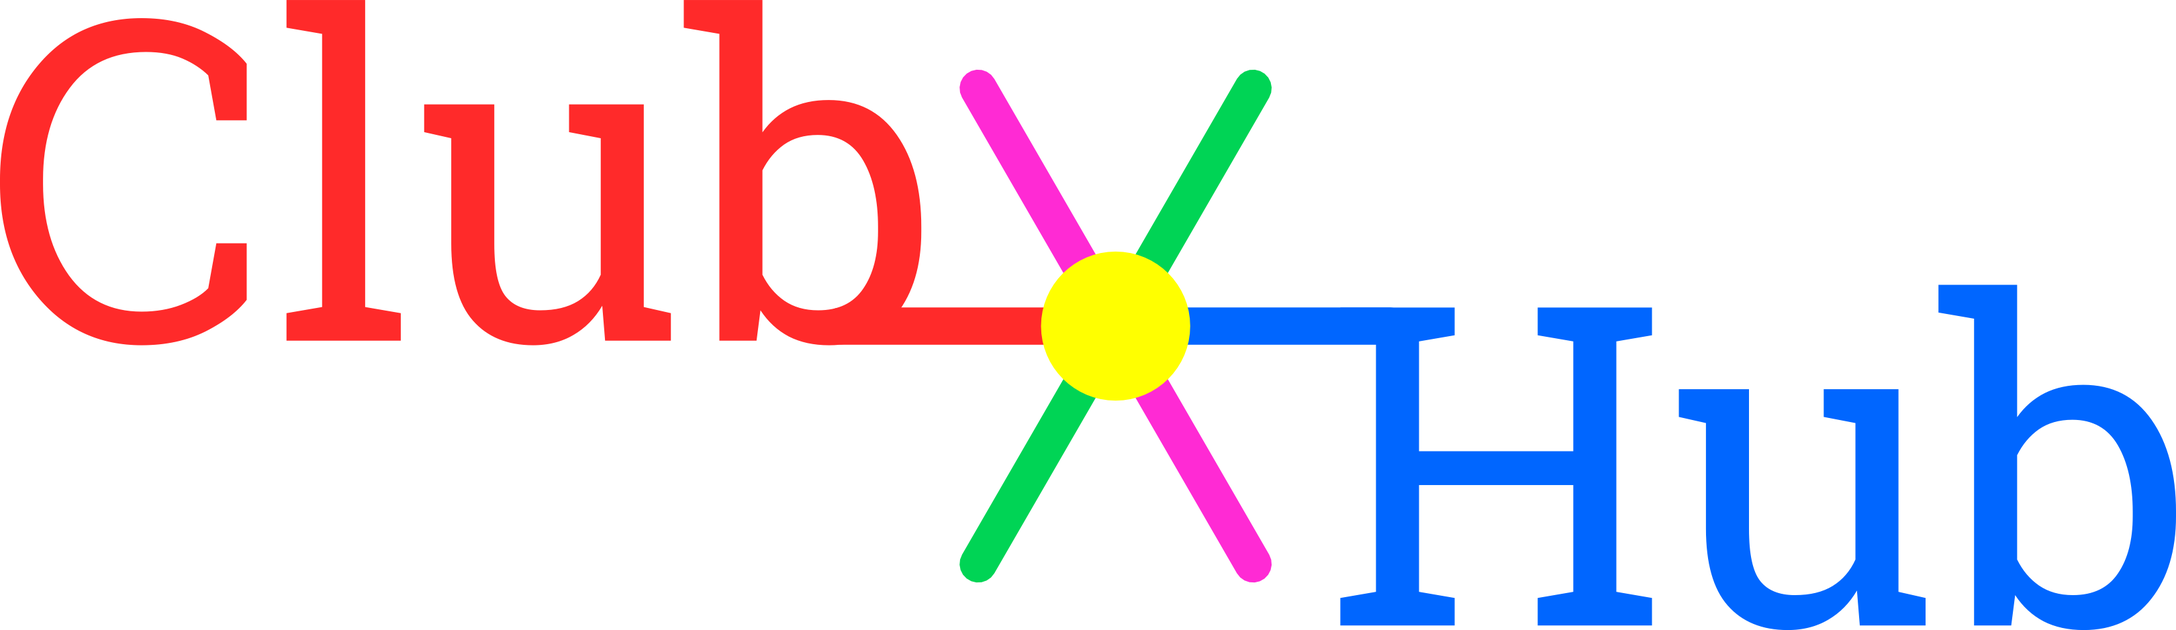
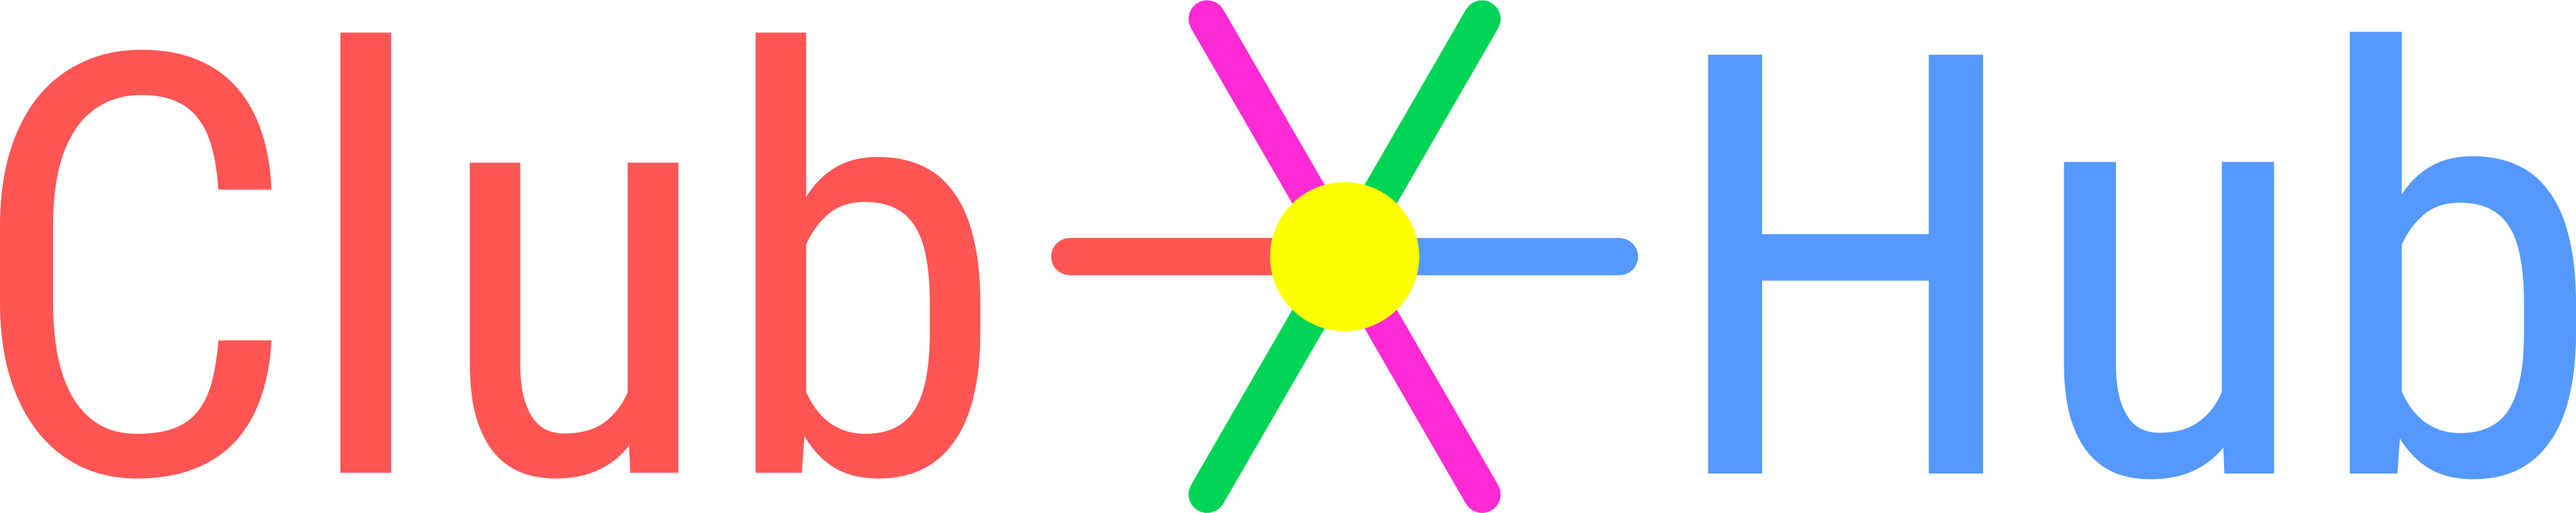
Club Hub: new clean look.

diff --git a/clubhub/meta/style.css b/clubhub/meta/style.css
@@ -9,10 +9,10 @@ body, html
 
 body 
 {
-        background-size: 100%;
+        background-size: 20%;
 	background-repeat: repeat;
-	background-attachment: fixed;
-	background-image: url("/clubhub/media/chalk.jpg");
+	background-attachment: scroll;
+	background-image: url("/clubhub/media/graph_light.png");
 	font-family: 'Roboto', serif;
 	font-weight: 300;
 	font-size: 1em;
@@ -35,8 +35,10 @@ h1, h2
 {
 	margin: 0% 5% 5% 5%;
 	/*background-color: rgba(255, 255, 255,1);*/
-	background-image: url("/clubhub/media/paper.jpg");
-	background-size: 100% auto;
+	/*background-image: url("/clubhub/media/paper.jpg");*/
+	background-image: url("/clubhub/media/texturedwhite.jpg");
+	background-color: white;
+	background-size: 100%;
 	background-repeat: repeat;
 	padding: 1% 2%;
 	border: 1px solid rgb(200,200,200);
@@ -58,13 +60,29 @@ h1, h2
         width: 100%;
         margin: 0% 0% 2% 0%;
         height: 3em;
-        background-color: rgb(0,102,255);
+        background-color: rgba(255,100,100, 0.3);
+        border-bottom: 2px solid rgb(200,50,50);
+        color: rgb(200,50,50);
         border-radius: 5px;
+}
+
+.protip.protip-green
+{
+        background-color: rgba(0, 182, 57, 0.3);
+        border-bottom: 2px solid rgb(0, 100, 57);
+        color: rgb(0, 100, 57);
+}
+
+.protip.protip-clear
+{
+        background-color: none;
+        border: none;
+        color: black;
 }
 
 .protip p, .protip a
 {
-        color: white;
+        color: inherit;
         text-align: center;
         padding: 1em 0;
 }
@@ -73,21 +91,6 @@ h1, h2
 {
         font-style: bold;
 }
-
-.sorttip
-{
-        width: 100%;
-        margin: 0% 0% 2% 0%;
-        height: 3em;
-        border-bottom: 3px solid rgba(0,102,255, 0.3);
-        border-radius: 5px;
-}
-
-.sorttip p
-{
-        font-weight: normal;
-}
-
 .clubtip
 {
         border-bottom: 3px solid rgba(255, 42, 42, 0.3);
@@ -133,7 +136,7 @@ footer
 	font-family: "Roboto", sans-serif;
 	font-size: 2em;
 	font-weight: 300;
-	color: rgb(220,220,220);
+	color: rgb(100,100,100);
 	vertical-align: middle;
 	padding-left: 2%;
 	display: inline-block;
@@ -318,59 +321,3 @@ hr
         /* Internet Explorer */
         filter: progid:DXImageTransform.Microsoft.BasicImage(rotation=3);
 }
-
-
-/*Sort bar stuff*/
-
-.sorts
-{
-        display: inline;
-}
-
-.button {
-  display: inline-block;
-  padding: 0.5em 1.0em;
-  background: white;
-  border: 1px solid rgb(0,102,255);
-  border-radius: 5px;
-  cursor: pointer;
-}
-
-.button:hover {
-  background-color: #8CF;
-}
-
-.button:active,
-.button.is-checked {
-  background-color: rgb(0,102,255);
-}
-
-.button.is-checked {
-  color: white;
-}
-
-.button-group
-{
-        margin: 0% 0% 2% 0%;
-        display: inline-block;
-}
-
-.buttonbar
-{
-        width: 100%;
-}
-
-#imsaundefined-link
-{
-        background: rgb(256, 100, 0);
-        border: 1px solid rgb(256, 200, 100);
-        color: white;
-        display: inline-block;
-        float: right;
-}
-
-#imsaundefined-link:hover
-{
-        background: rgb(256, 160, 100);
-}
-

diff --git a/clubhub/index.html b/clubhub/index.html
@@ -42,7 +42,7 @@
 	</head>
 	<body>
 		<div class="branding-box">
-			<a href="/clubhub"><img id="club-logo" src="media/clubhub_chalk.png" alt="Club Hub"/></a>
+			<a href="/clubhub"><img id="club-logo" src="media/Club_Hub_Branding.png" alt="Club Hub"/></a>
 			<h1><i>What's the Next Big Thing at IMSA?</i></h1>
 		</div>
 		
@@ -50,12 +50,12 @@
 		
 		<div id="main-body">
 			<div class="body-box">
-			        <div class="protip"><p>Protip: Click on a poster for more information.</p></div>
+			        <div class="protip"><p>Protip: Click on a poster for more information. <a href="http://imsaundefined.org/clubhub/submit">Go here</a> to get your poster hosted on Club Hub.</p></div>
 			        <div class="buttonbar">
 			                <div id="sorts" class="button-group">
-                                                <button class="button viewtoggle" data-sort-value="quick">Quick View</button>
                                                 <button class="button viewtoggle is-checked" data-sort-value="date">Date View</button>
                                                 <button class="button viewtoggle" data-sort-value="clubs">Club View</button>
+                                                <button class="button viewtoggle" data-sort-value="quick">Summary View</button>
                                         </div>
                                         <a href="/"><button class="button" id="imsaundefined-link">an imsa#undefined project</button></a>
                                 </div>
@@ -66,9 +66,8 @@
                                                 </div>-->
                                         </div>
                                 </div>
-                                <div class="protip"><p>Protip: <a href="http://imsaundefined.org/clubhub/submit">Click here</a> to get your poster hosted on Club Hub.</p></div>
-                                <div class="protip" style="background-color: rgb(0, 182, 57)"><p>How are we doing? <a href="https://docs.google.com/forms/d/1HMsf5ahCQivuczPrtqGjojj3NmZ8xxtKTNpNFz5J614/viewform?usp=send_form">Feedback Form (for Clubs)</a> <a href="https://docs.google.com/forms/d/10h9SFEC7zsQv_teze6dOfSI168qGP8z4Ef3oLrz6Z6Q/viewform?usp=send_form">Feedback Form (for Students)</a><p></div>
-                                <div class="protip" style="background-color: rgba(0,0,0,0)"><p style="color: black">Club Hub version 0.3</p></div>
+                                <div class="protip protip-green"><p>How are we doing? <a href="https://docs.google.com/forms/d/1HMsf5ahCQivuczPrtqGjojj3NmZ8xxtKTNpNFz5J614/viewform?usp=send_form">Feedback Form (for Clubs)</a> <a href="https://docs.google.com/forms/d/10h9SFEC7zsQv_teze6dOfSI168qGP8z4Ef3oLrz6Z6Q/viewform?usp=send_form">Feedback Form (for Students)</a><p></div>
+                                <div class="protip protip-clear" style="background-color: rgba(0,0,0,0)"><p>Club Hub version 0.3</p></div>
 			</div>
 			<div class="footer"></div>
 		</div>

diff --git a/clubhub/meta/bigthing.css b/clubhub/meta/bigthing.css
@@ -125,6 +125,19 @@ div
         width: 620px;
 }
 
+.sorttip
+{
+        width: 90%;
+        margin: 0% 0% 2% 0%;
+        height: 3em;
+        border-bottom: 2px solid rgba(0,102,255, 0.3);
+}
+
+.sorttip p
+{
+        font-weight: normal;
+}
+
 /*==========================END MITEM STYLING============================*/
 
 .isotope:after {
@@ -332,4 +345,61 @@ footer
         right: 0;
         bottom: 0;
 }
+
+/*Sort bar stuff*/
+
+.sorts
+{
+        display: inline;
 }
+
+.button {
+  display: inline-block;
+  padding: 0.5em 1.0em;
+  background: white;
+  border: 1px solid rgb(0,80,200);
+  color: rgb(0,80,200);
+  border-radius: 5px;
+  cursor: pointer;
+}
+
+.button:hover {
+  background-color: rgba(0,150,255, 0.5);
+  color: white;
+}
+
+.button:active,
+.button.is-checked {
+  background-color: rgb(0,102,255);
+}
+
+.button.is-checked {
+  color: white;
+}
+
+.button-group
+{
+        margin: 0% 0% 2% 0%;
+        display: inline-block;
+}
+
+.buttonbar
+{
+        width: 100%;
+}
+
+#imsaundefined-link
+{
+        background: white;
+        border: 1px solid rgb(256, 100, 0);
+        color: rgb(256, 100, 0);
+        display: inline-block;
+        float: right;
+}
+
+#imsaundefined-link:hover
+{
+        background: rgb(256, 160, 100);
+        color: white;
+}
+
